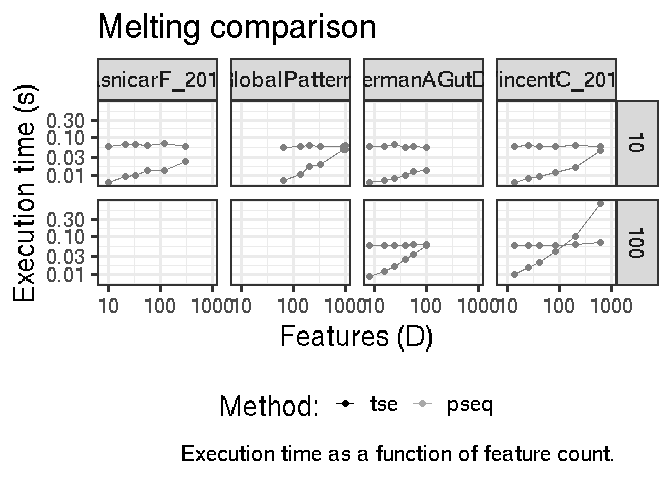
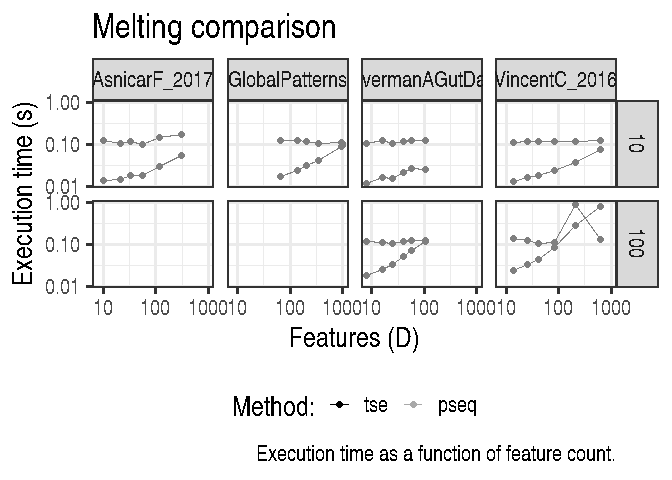
new figures and some polishing

diff --git a/experiments/melt_benchmark.md b/experiments/melt_benchmark.md
@@ -1,0 +1,6 @@
+![](melt_benchmark_files/figure-markdown_strict/melting_features-1.png)
+
+Compare execution time ratios
+=============================
+
+![](melt_benchmark_files/figure-markdown_strict/melting_features_ratio-1.png)
